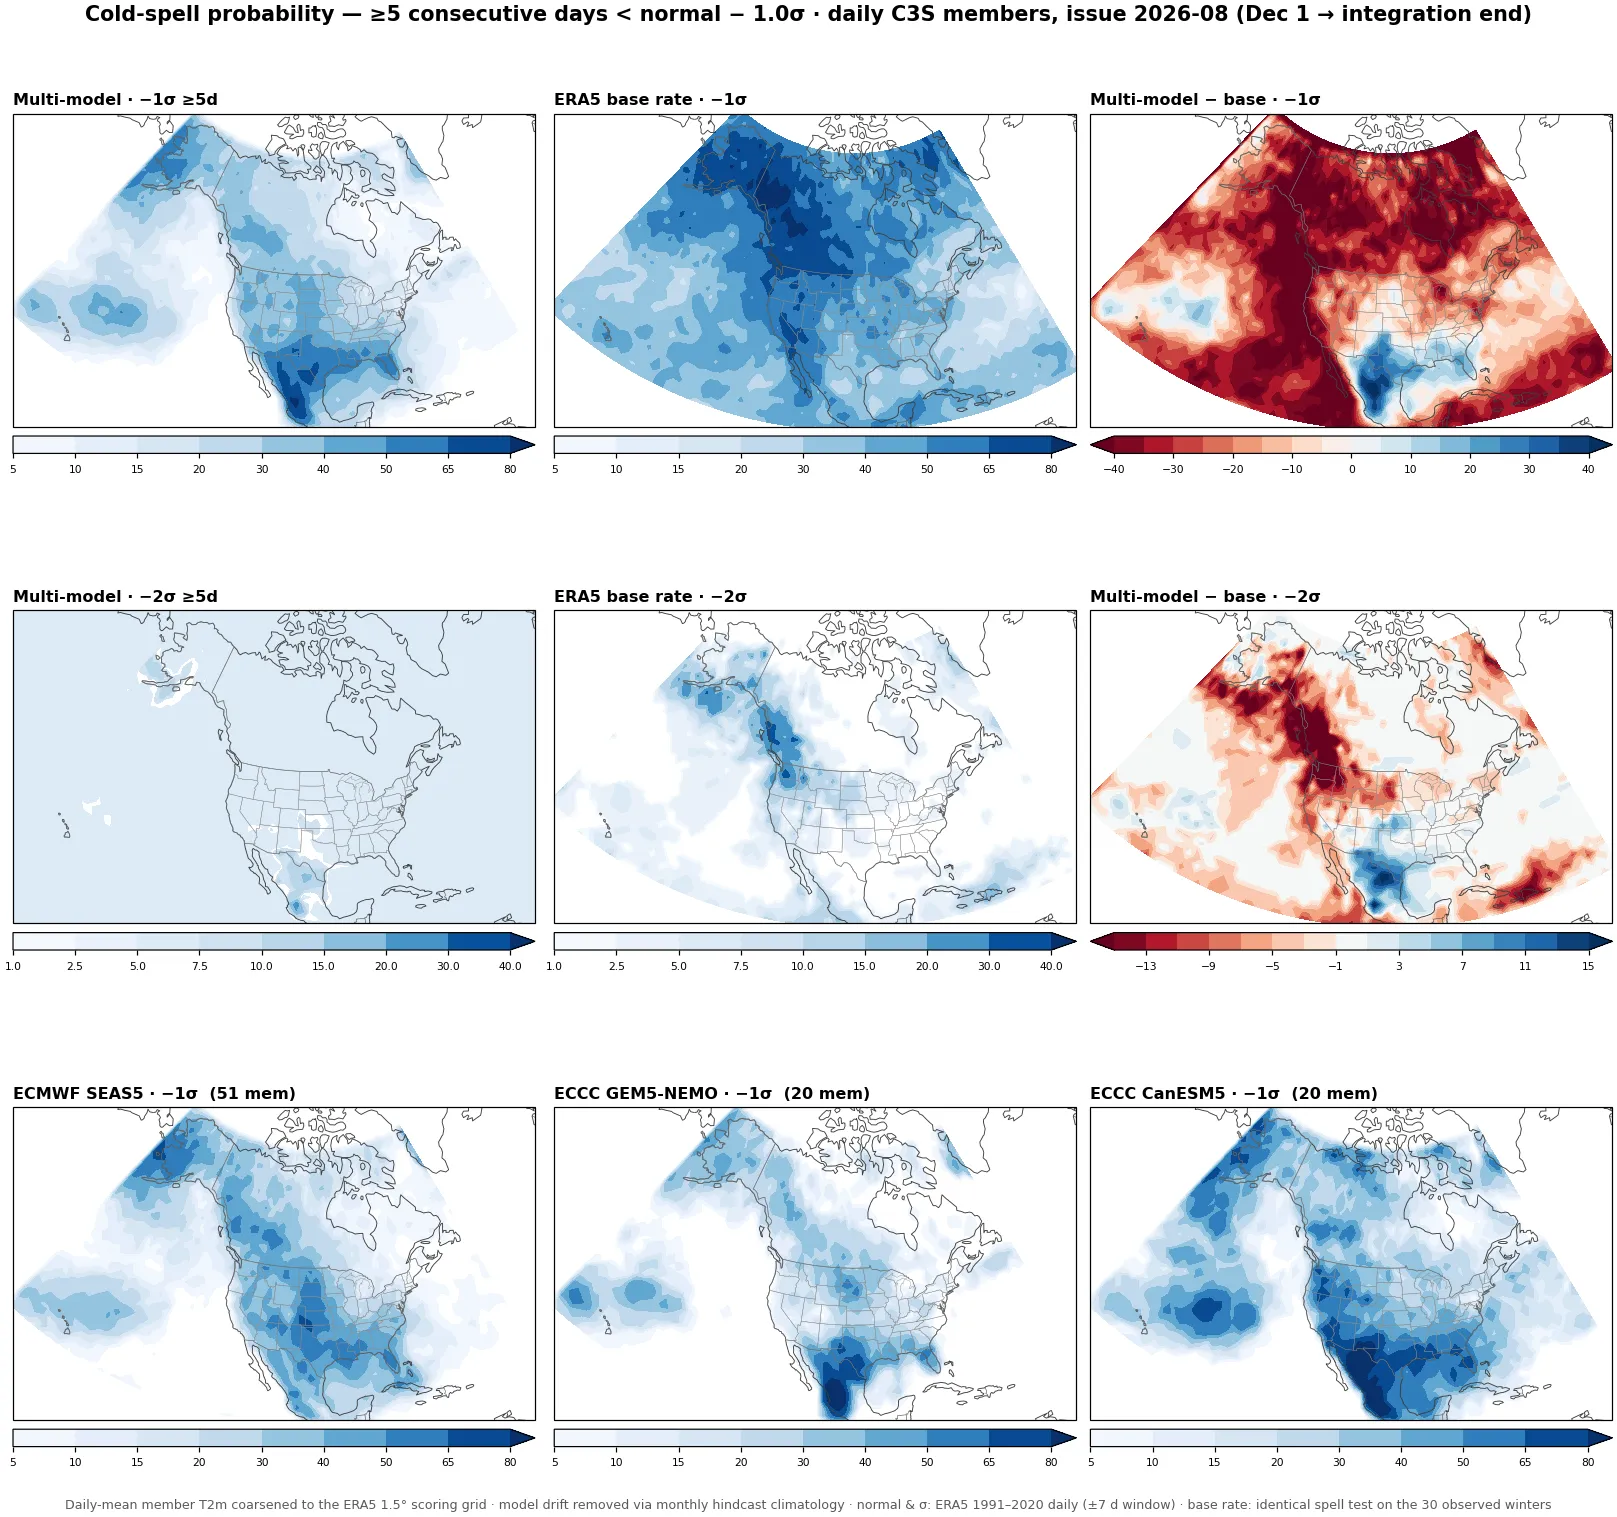
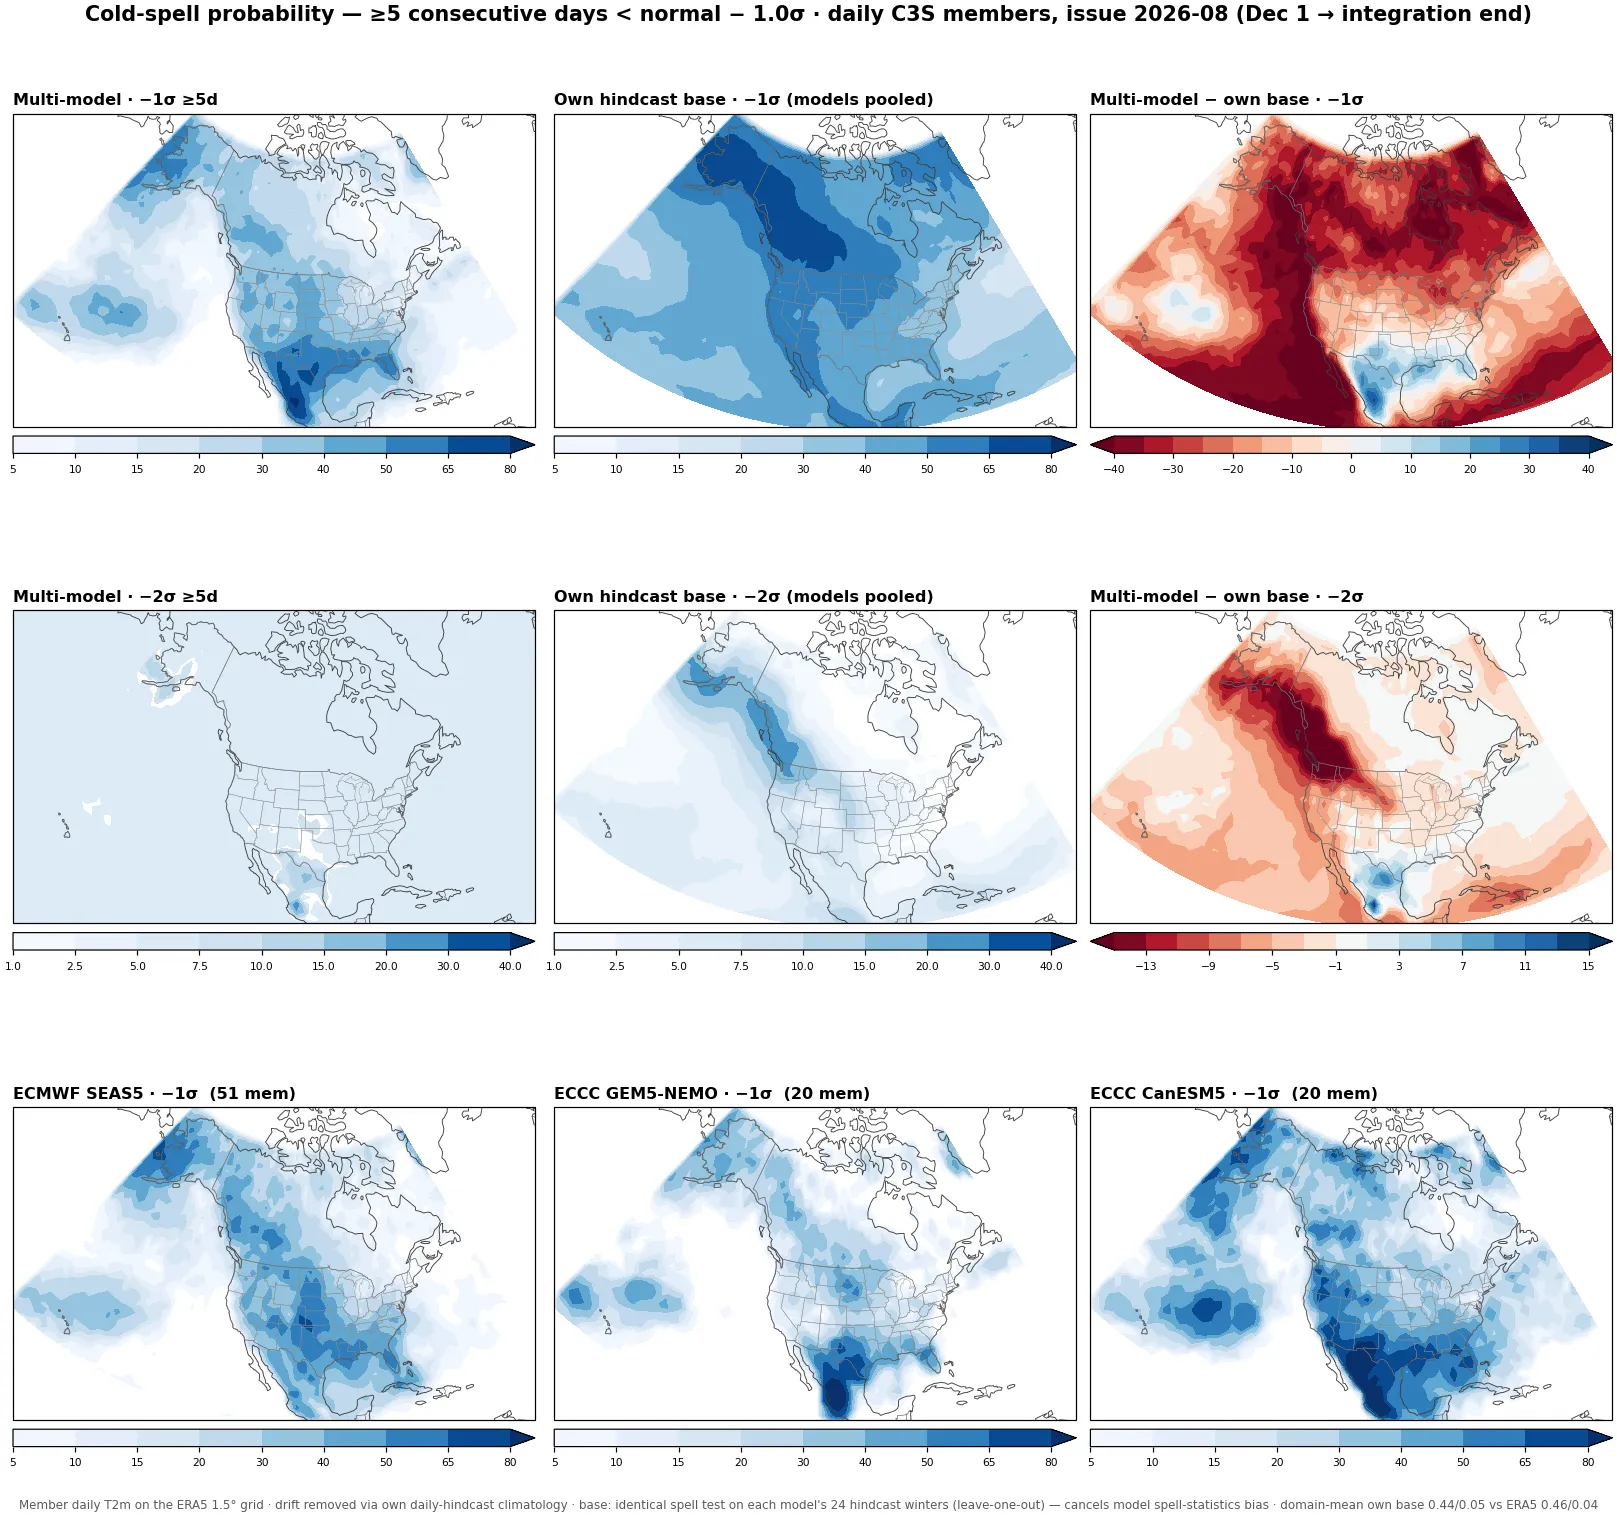
Cold-spell difference map: reference is now each model's own hindcast spell rate
Identical spell test on each model's 24 hindcast winters (leave-one-out,
member-pooled) replaces the ERA5 base as the subtrahend — cancels model
spell-statistics bias and is far less noisy (~600 samples/gridpoint vs 30).
Domain-mean own bases 0.42-0.46 vs ERA5 0.46.

diff --git a/scripts/sst/pages/forecasts.html b/scripts/sst/pages/forecasts.html
@@ -113,18 +113,24 @@
     &minus;2&sigma; tier) between Dec&nbsp;1 and the end of the integration? Each member
     is scored against a climatology built from its <b>own model's daily hindcast</b>
     per lead day &mdash; the only correction that survives the ~3&nbsp;&deg;C offset
-    between the C3S monthly and daily streams &mdash; with normal and &sigma; from ERA5
-    1991&ndash;2020 dailies. The middle column is the honesty check: the identical spell
-    test run on the 30 observed winters. The difference map is the forecast: cold-spell
-    risk <i>suppressed</i> nearly continent-wide under the record El&nbsp;Ni&ntilde;o
-    &mdash; except a coherent patch over <b>Texas and the southern Plains</b> sitting
-    <i>above</i> its already-nontrivial base rate. A warm winter with a loaded southern
+    between the C3S monthly and daily streams. The middle column is the reference the
+    difference map subtracts: the <b>identical spell test on each model's own 24
+    hindcast winters</b> (leave-one-out, member-pooled &mdash; ~600 samples per
+    gridpoint, so it's also far less noisy than a 30-winter observed base). Comparing
+    a model to its own climatological spell rate cancels any bias in its daily
+    variability and persistence statistics; the domain-mean own bases
+    (0.42&ndash;0.46) land within a few points of ERA5's 0.46, so the models' spell
+    climates are honest to begin with &mdash; but the per-gridpoint correction
+    matters. The difference map is the forecast: cold-spell risk <i>suppressed</i>
+    nearly continent-wide under the record El&nbsp;Ni&ntilde;o &mdash; except a
+    coherent patch over <b>southern Texas and the Gulf coast</b> sitting <i>above</i>
+    the models' own base rates. A warm winter with a loaded southern
     cold-outbreak gun is exactly the strong-Ni&ntilde;o precedent (Feb&nbsp;2021 was a
     La&nbsp;Ni&ntilde;a, but Jan&nbsp;2010 and Dec&nbsp;2015's southern outbreaks were
     not).</p>
     <div class="img-wrap"><img src="assets/sst/c3s_winter_coldspell.webp?v=__CACHE__" alt="Probability of 5 or more consecutive days below normal minus 1 and 2 sigma, from daily C3S ensemble members, versus the ERA5 base rate" loading="lazy"></div>
     <div class="chart-card-footer">
-      <span class="chart-sources">C3S seasonal-original daily members (CDS) &middot; per-lead-day drift correction from each model's own 24-yr daily hindcast (&plusmn;7&nbsp;d, member&times;year pooled) &middot; normal &amp; &sigma;: ERA5 1991&ndash;2020 (&plusmn;7&nbsp;d) &middot; base rate: same test on the 30 observed winters &middot; refreshed each monthly issue</span>
+      <span class="chart-sources">C3S seasonal-original daily members (CDS) &middot; per-lead-day drift correction from each model's own 24-yr daily hindcast (&plusmn;7&nbsp;d, member&times;year pooled) &middot; normal &amp; &sigma;: ERA5 1991&ndash;2020 (&plusmn;7&nbsp;d) &middot; base: same test on each model's own 24 hindcast winters, leave-one-out &middot; refreshed each monthly issue</span>
     </div>
   </div>
 

diff --git a/scripts/sst/c3s_coldspell.py b/scripts/sst/c3s_coldspell.py
@@ -215,6 +215,35 @@ def model_daily_climo(centre, system, issue, tlat, tlon):
     return mean, std, nd
 
 
+def model_spell_base(centre, system, tlat, tlon):
+    """The model's OWN climatological spell rate per gridpoint: the identical
+    spell test on its 24 hindcast winters (leave-one-out climatology,
+    member-pooled), on the scoring grid. This — not the ERA5 base — is the
+    right reference for the forecast-minus-climatology map: it cancels any
+    bias in the model's daily variability and persistence statistics. Reuses
+    the backtest's per-year caches; ~2 min cold, instant cached."""
+    cache = DATA / f"modelbase_{centre}_{system}_{SPELL_DAYS}d.npz"
+    if cache.exists():
+        z = np.load(cache)
+        return {1.0: z["base1"], 2.0: z["base2"]}
+    from c3s_coldspell_backtest import prep_year, loo_stats, YEARS
+    ad = {y: prep_year(centre, system, y, tlat, tlon) for y in YEARS}
+    ad = {y: d for y, d in ad.items() if d is not None}
+    if len(ad) < 20:
+        return None
+    print(f"  building own-hindcast spell base: {centre}/{system} "
+          f"({len(ad)} winters) …", flush=True)
+    loo = loo_stats(ad)
+    out = {}
+    for sg in (1.0, 2.0):
+        ps = [spell_prob((ad[y] - loo[y][0][None])
+                         / np.maximum(loo[y][1][None], 0.5), -sg, SPELL_DAYS)
+              .mean(axis=0) for y in ad]
+        out[sg] = np.mean(ps, axis=0).astype(np.float32)
+    np.savez_compressed(cache, base1=out[1.0], base2=out[2.0])
+    return out
+
+
 def spell_prob(z, thresh=-1.0, days=5):
     """P-per-sample of >= `days` consecutive True along axis 1."""
     cold = z < thresh
@@ -374,16 +403,25 @@ def build(issue: str, out: Path):
             "day", "latitude", "longitude").values
         anom = (daily_v - mclim_d[None, :nkeep]) + (cm[None] - 273.15)
         runs = {sg: spell_prob(z, -sg, SPELL_DAYS).mean(axis=0) for sg in (1.0, 2.0)}
+        mb = model_spell_base(centre, system, tlat, tlon)
         panels[label] = dict(p=runs[1.0], p2=runs[2.0], abs_daily=anom,
-                             nmem=z.shape[0], ndays=z.shape[1], udays=udays)
+                             nmem=z.shape[0], ndays=z.shape[1], udays=udays,
+                             mbase=mb)
+        mtxt = (f"own base {mb[1.0].mean():.2f}/{mb[2.0].mean():.2f}"
+                if mb else "own base n/a")
         print(f"  {label}: {z.shape[0]} members × {z.shape[1]} days · "
-              f"P(1σ)={runs[1.0].mean():.2f} (base {bases[1.0].mean():.2f}) · "
-              f"P(2σ)={runs[2.0].mean():.2f} (base {bases[2.0].mean():.2f})")
+              f"P(1σ)={runs[1.0].mean():.2f} · P(2σ)={runs[2.0].mean():.2f} · "
+              f"{mtxt} · ERA5 base {bases[1.0].mean():.2f}/{bases[2.0].mean():.2f}")
 
     if not panels:
         raise SystemExit("no daily data on disk yet")
     combo = np.mean([P["p"] for P in panels.values()], axis=0)
     combo2 = np.mean([P["p2"] for P in panels.values()], axis=0)
+    withbase = [P for P in panels.values() if P.get("mbase")]
+    mmbase = {sg: np.mean([P["mbase"][sg] for P in withbase], axis=0)
+              for sg in (1.0, 2.0)}
+    mmfc = {1.0: np.mean([P["p"] for P in withbase], axis=0),
+            2.0: np.mean([P["p2"] for P in withbase], axis=0)}
     lon_plot = np.where(tlon > 180, tlon - 360, tlon)
     permian_product(panels, tlat, lon_plot, issue)
 
@@ -398,13 +436,15 @@ def build(issue: str, out: Path):
     levels = [5, 10, 15, 20, 30, 40, 50, 65, 80]
     lev2 = [1, 2.5, 5, 7.5, 10, 15, 20, 30, 40]
     plots = ([("MM1", combo, "Blues", levels, f"Multi-model · −1σ ≥{SPELL_DAYS}d"),
-              ("Base", bases[1.0], "Blues", levels, "ERA5 base rate · −1σ"),
-              ("Diff", combo - bases[1.0], "RdBu", np.linspace(-0.4, 0.4, 17),
-               "Multi-model − base · −1σ"),
+              ("Base", mmbase[1.0], "Blues", levels,
+               "Own hindcast base · −1σ (models pooled)"),
+              ("Diff", mmfc[1.0] - mmbase[1.0], "RdBu",
+               np.linspace(-0.4, 0.4, 17), "Multi-model − own base · −1σ"),
               ("MM2", combo2, "Blues", lev2, f"Multi-model · −2σ ≥{SPELL_DAYS}d"),
-              ("Base2", bases[2.0], "Blues", lev2, "ERA5 base rate · −2σ"),
-              ("Diff2", combo2 - bases[2.0], "RdBu", np.linspace(-0.15, 0.15, 16),
-               "Multi-model − base · −2σ")]
+              ("Base2", mmbase[2.0], "Blues", lev2,
+               "Own hindcast base · −2σ (models pooled)"),
+              ("Diff2", mmfc[2.0] - mmbase[2.0], "RdBu",
+               np.linspace(-0.15, 0.15, 16), "Multi-model − own base · −2σ")]
              + [(f"m{i}", P["p"], "Blues", levels, f"{lab} · −1σ  ({P['nmem']} mem)")
                 for i, (lab, P) in enumerate(panels.items())])
     for ax, (key, fld, cmap, lev, title) in zip(axes, plots):
@@ -428,9 +468,10 @@ def build(issue: str, out: Path):
                  f"daily C3S members, issue {issue[:4]}-{issue[4:]} (Dec 1 → integration end)",
                  fontsize=13.5, fontweight="bold")
     fig.text(0.5, 0.006,
-             "Daily-mean member T2m coarsened to the ERA5 1.5° scoring grid · model drift removed via monthly hindcast climatology · "
-             "normal & σ: ERA5 1991–2020 daily (±7 d window) · base rate: identical spell test on the 30 observed winters",
-             fontsize=8.3, ha="center", color="0.35")
+             "Member daily T2m on the ERA5 1.5° grid · drift removed via own daily-hindcast climatology · base: identical spell "
+             "test on each model's 24 hindcast winters (leave-one-out) — cancels model spell-statistics bias · domain-mean own base "
+             f"{mmbase[1.0].mean():.2f}/{mmbase[2.0].mean():.2f} vs ERA5 {bases[1.0].mean():.2f}/{bases[2.0].mean():.2f}",
+             fontsize=7.8, ha="center", color="0.35")
     out.parent.mkdir(parents=True, exist_ok=True)
     fig.savefig(out, dpi=110)
     plt.close(fig)
